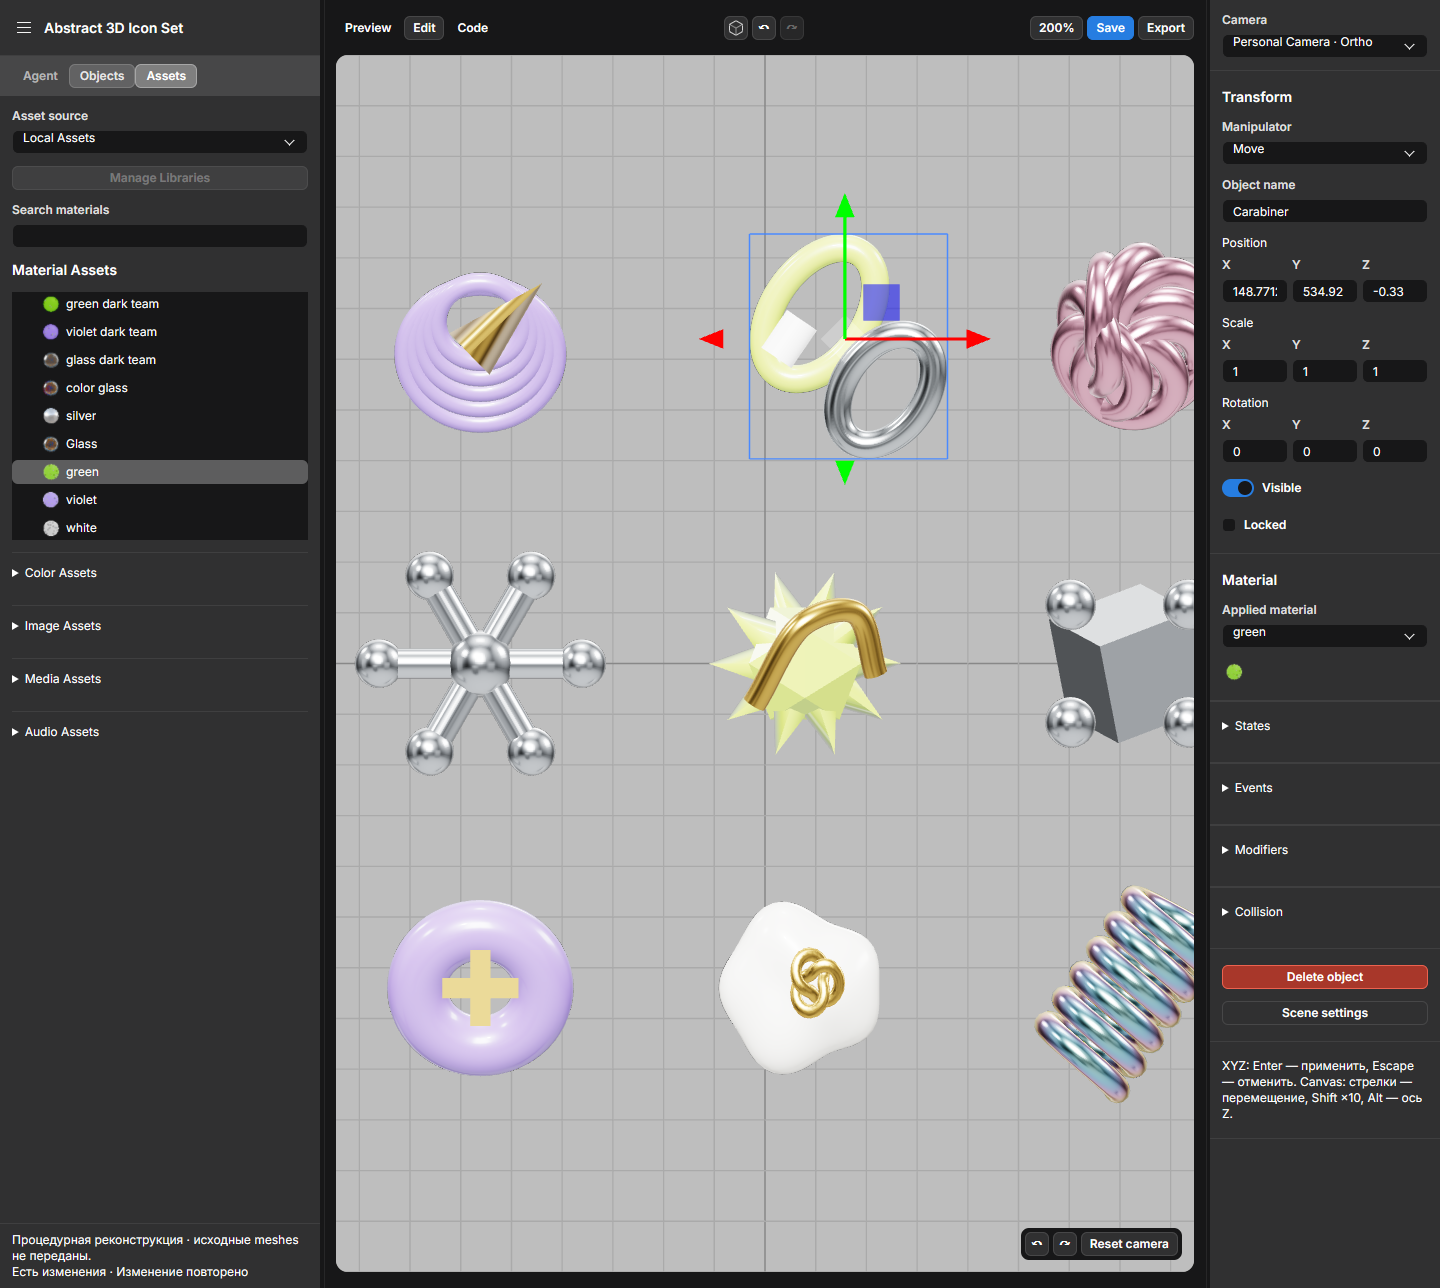
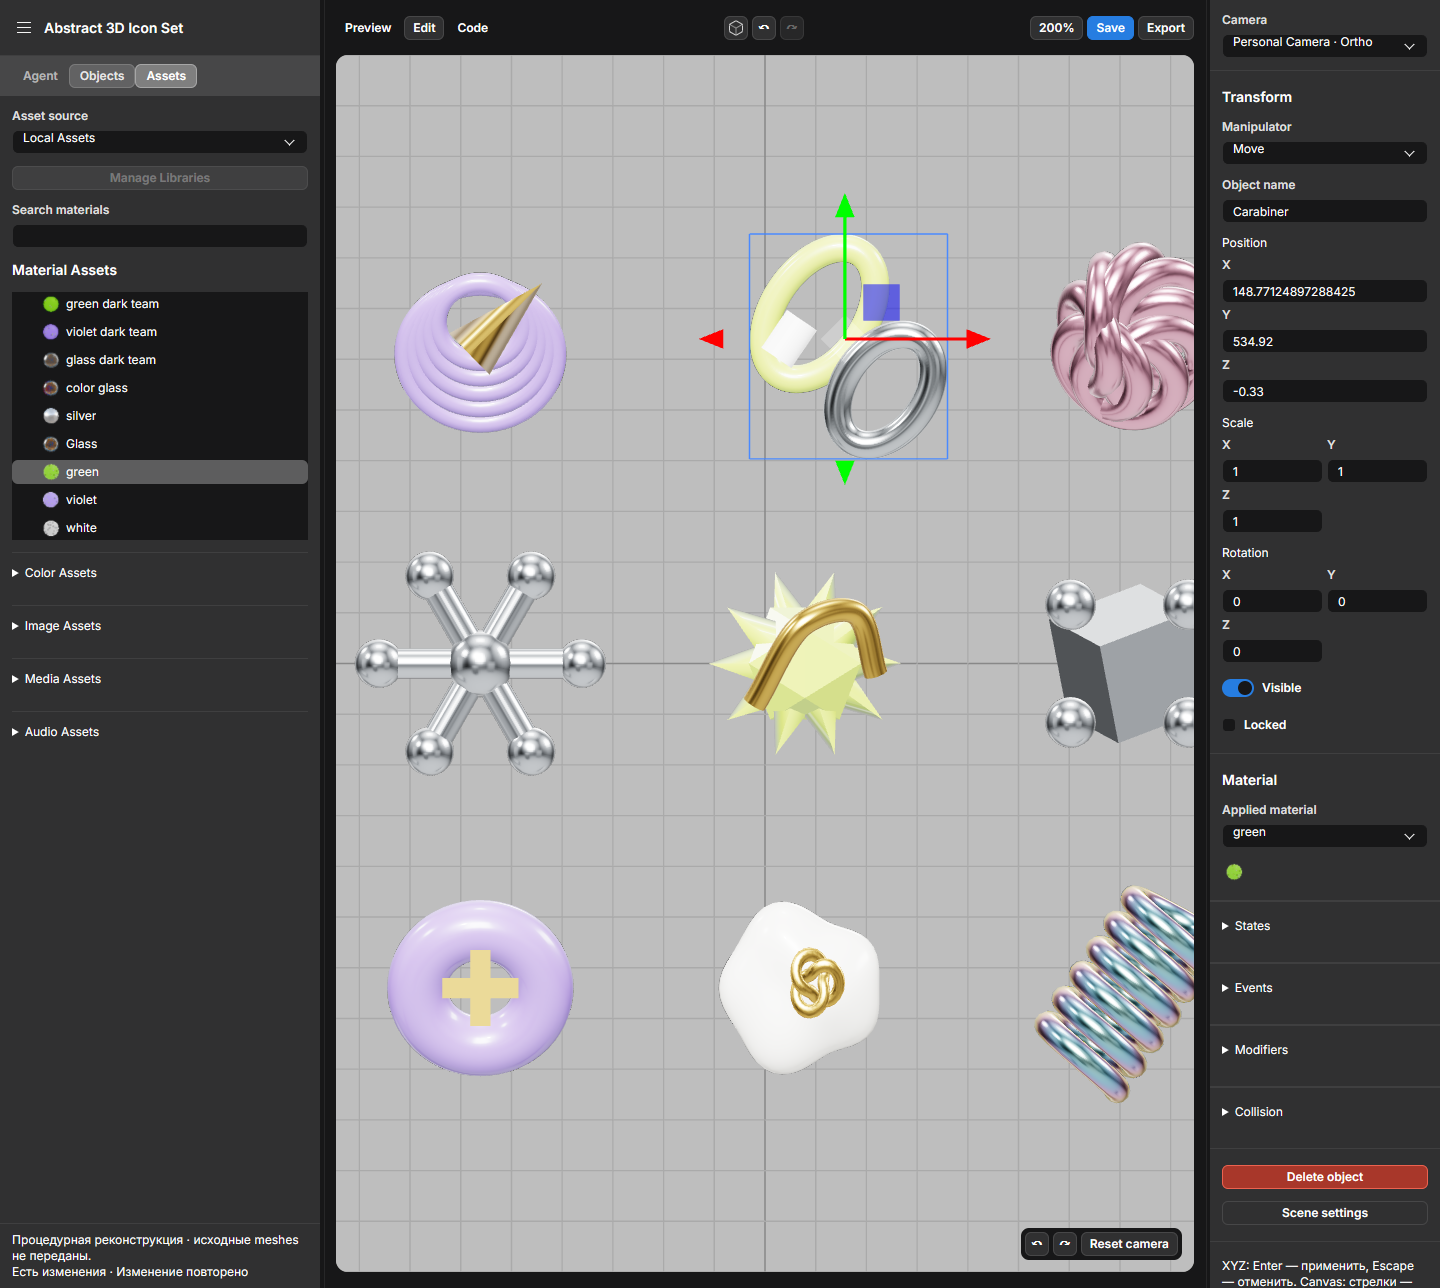
fix: keep fractional gizmo values readable with data-aware inspector columns

Changed region(s): [[0.8438, 0.2174, 1.0, 0.8696], [0.8438, 0.9006, 1.0, 1.0]]

diff --git a/portal/component-lab/pilots/settings-parametric/references/spline.tsx b/portal/component-lab/pilots/settings-parametric/references/spline.tsx
@@ -65,7 +65,7 @@ function Spline(){
  const sidebar=<aside className="spline-sidebar" aria-label="Scene navigation"><header><DropdownMenu triggerLabel="Scene menu" iconOnly triggerIcon={icon('imgGroup')} items={[{id:'scene',label:'Source context: Scene · 1:4844',onSelect:()=>context('scene')},{id:'object',label:'Source context: Object · 1:5441',onSelect:()=>context('object')},{id:'settings',label:'Appearance and parameters',onSelect:()=>show('settings')},{id:'help',label:'Scope and keyboard help',onSelect:()=>show('help')},{id:'reset',label:'Restore source reconstruction',onSelect:reset}]}/><Text as="h1" variant="label/default">Abstract 3D Icon Set</Text></header><Tabs label="Scene panels" value={view.tab} onValueChange={tab=>{if(guardDraft())setView(old=>({...old,tab:tab as m.SplineView['tab']}));}} variant="pill" items={[{value:'Agent',label:'Agent',content:agent},{value:'Objects',label:'Objects',content:objects},{value:'Assets',label:'Assets',content:assets}]}/><footer><Text as="p" variant="caption/default">Процедурная реконструкция · исходные meshes не переданы.</Text><Text as="p" variant="caption/default" role="status" id="spline-save-status">{gesture?'Предварительный жест':busy?'Сохранение…':dirty?'Есть изменения':'Все изменения сохранены'} · {notice}</Text>{error&&<Text as="p" variant="body/default" role="alert">{error}</Text>}{loadState==='error'&&<Button onClick={reset}>Восстановить исходную сцену</Button>}</footer></aside>;
  const inspector=<aside className="spline-inspector" aria-label="Inspector"><header><Select label="Camera" value={view.projection} options={[{value:'orthographic',label:'Personal Camera · Ortho'},{value:'perspective',label:'Personal Camera · Perspective'}]} onValueChange={value=>setView(old=>({...old,projection:value as m.SplineView['projection']}))}/></header>{selected?<>
   <section><Text as="h2" variant="label/default">Transform</Text><Select id="spline-transform-mode" label="Manipulator" value={transformMode} options={[{value:"translate",label:"Move"},{value:"rotate",label:"Rotate"},{value:"scale",label:"Scale"}]} disabled={!enabled||selected.locked} onValueChange={value=>{if(guardDraft())setTransformMode(value as ManipulatorMode);}}/><DraftProperty key={selected.id+'-name'} id="spline-object-name" label="Object name" value={selected.name} mixed={false} identity={selected.id} disabled={!enabled||selected.locked} onPending={onPending} onCommit={value=>commit(m.updateObject(documentRef.current,selected.id,{name:value}))}/>
-   {(['position','scale','rotation'] as const).map(kind=><fieldset key={kind}><legend>{kind[0].toUpperCase()+kind.slice(1)}</legend><div className="spline-axis-grid">{(['X','Y','Z'] as const).map((axis,index)=><DraftProperty key={selected.id+kind+axis} id={'spline-'+kind+'-'+axis} label={axis} value={String(selected[kind][index])} mixed={false} identity={selected.id} disabled={!enabled||selected.locked} onPending={onPending} validate={value=>String(m.numericValue(value,kind))} onCommit={value=>commit(m.transformAxis(documentRef.current,selected.id,kind,index as 0|1|2,Number(value)))}/>)}</div></fieldset>)}
+   {(['position','scale','rotation'] as const).map(kind=><fieldset key={kind}><legend>{kind[0].toUpperCase()+kind.slice(1)}</legend><div className="spline-axis-grid" style={{'--spline-number-min':Math.ceil(Math.max(60+prefs.airX*2+({s:0,m:8,l:16,xl:24}[prefs.size]),...selected[kind].map(value=>Math.max(6,String(value).length)*geometry.font*.65+2*geometry.fieldPaddingX+2)))+'px'} as React.CSSProperties}>{(['X','Y','Z'] as const).map((axis,index)=><DraftProperty key={selected.id+kind+axis} id={'spline-'+kind+'-'+axis} label={axis} value={String(selected[kind][index])} mixed={false} identity={selected.id} disabled={!enabled||selected.locked} onPending={onPending} validate={value=>String(m.numericValue(value,kind))} onCommit={value=>commit(m.transformAxis(documentRef.current,selected.id,kind,index as 0|1|2,Number(value)))}/>)}</div></fieldset>)}
    <Toggle label="Visible" checked={selected.visible} disabled={!enabled||selected.locked} onCheckedChange={visible=>command(doc=>m.updateObject(doc,selected.id,{visible}))}/><Checkbox label="Locked" checked={selected.locked} disabled={!enabled} onCheckedChange={locked=>command(doc=>m.updateObject(doc,selected.id,{locked}))}/>
   </section><section><Text as="h2" variant="label/default">Material</Text><Select id="spline-material" label="Applied material" options={m.materialNames.map(value=>({value,label:value}))} value={selected.material} disabled={!enabled||selected.locked} onValueChange={value=>command(doc=>m.updateObject(doc,selected.id,{material:value as m.MaterialName}))}/>{materialImage(m.materialNames.indexOf(selected.material))}</section>
   {['States','Events','Modifiers','Collision'].map(label=><details key={label}><summary>{label}</summary><Text as="p" variant="caption/default">Этот механизм ещё не реализован. Наличие секции не означает исполняемый контракт.</Text></details>)}<section><Button variant="destruction" onClick={remove} disabled={!enabled||selected.locked}>Delete object</Button><Button variant="outline" onClick={()=>select(null)}>Scene settings</Button></section>

diff --git a/docs/library/REFERENCE-SPLINE-HANDOFF.md b/docs/library/REFERENCE-SPLINE-HANDOFF.md
@@ -77,3 +77,5 @@ Production повторил10 UI groups с24 вложенными profile sample
 Локально: [9 model groups](../../portal/component-lab/pilots/settings-parametric/verification/spline-gizmo-model.json), [5 renderer groups с appearance recovery](../../portal/component-lab/pilots/settings-parametric/verification/spline-gizmo-renderer.json),10 существующих UI groups и [11 pointer integration groups](../../portal/component-lab/pilots/settings-parametric/verification/spline-gizmo-ui.json). Pointer matrix содержит16 вложенных комбинаций Light/Dark × S/M/L/XL ×1024/1440 с text150%/X24/Y12; это не16 отдельных workflows. Blur/pointercancel fixtures синтетические и не объявляются OS/hardware/AT acceptance.
 
 Манипулятор и3D math принадлежат reference app, не новому SEDA component contract; все его DOM controls остаются installed SEDA. Точная mesh/material/camera реконструкция, scene inspector parity, States/Events/Modifiers/Collision/Variables/import/collaboration/AI и общая visual/AT/performance приёмка остаются открытыми. Version22 выше — исторический checkpoint; публикация этого кандидата будет записана отдельно.
+
+Дополнительная visual проверка pointer matrix использует фактические дробные XYZ после drag: старые ячейки обрезали `147.79153846153852` даже при успешной проверке целого250. Сетка теперь учитывает длину текущих чисел и derived font/field padding; колонки перестраиваются без округления модели и без изменения viewport во время жеста. Все16 pointer samples проверяют input scrollWidth/clientWidth после drag. Не заявляется отсутствие прокрутки для произвольных длинных invalid drafts.

diff --git a/docs/library/QUALITY-REVIEWS.md b/docs/library/QUALITY-REVIEWS.md
@@ -89,3 +89,5 @@ Production version13: просмотрен [устойчивый Dark editor с 
 Pointer drag связывает TransformControls/preview/inspector/authoritative document через отдельный transaction, один undo entry и guarded finish. Тест сравнивает сцену после undo с исходной без selection/gizmo overlays, а не сравнивает разные hover states. Найденный resize→pointerup race закрыт синхронной сверкой rect/viewport/DPR; Observer-only cancellation была недостаточной.
 
 Appearance recovery отдельно от draw calls: потеря PMREM render target делала серебро чёрным после context restore. Теперь environment создаётся заново, pixel identity до/после восстановлена на проверенном browser/GPU fixture. Старое5/5 renderer evidence version22 имело более узкий scope и не переобозначается как проверка appearance. Pointer tests отдельно маркируют синтетические blur/cancel события и16 profile samples. Полная source/OS/AT/performance приёмка открыта.
+
+После реального pointer gesture отдельно проверяются длинные дробные XYZ. Целое250 помещалось в grid, а147.79153846153852 обрезалось. Исправлена раскладка columns по текущим числам/derived metrics; UI font/padding и точность модели сохранены.16 pointer profile samples теперь включают measured input scrollWidth/clientWidth.
